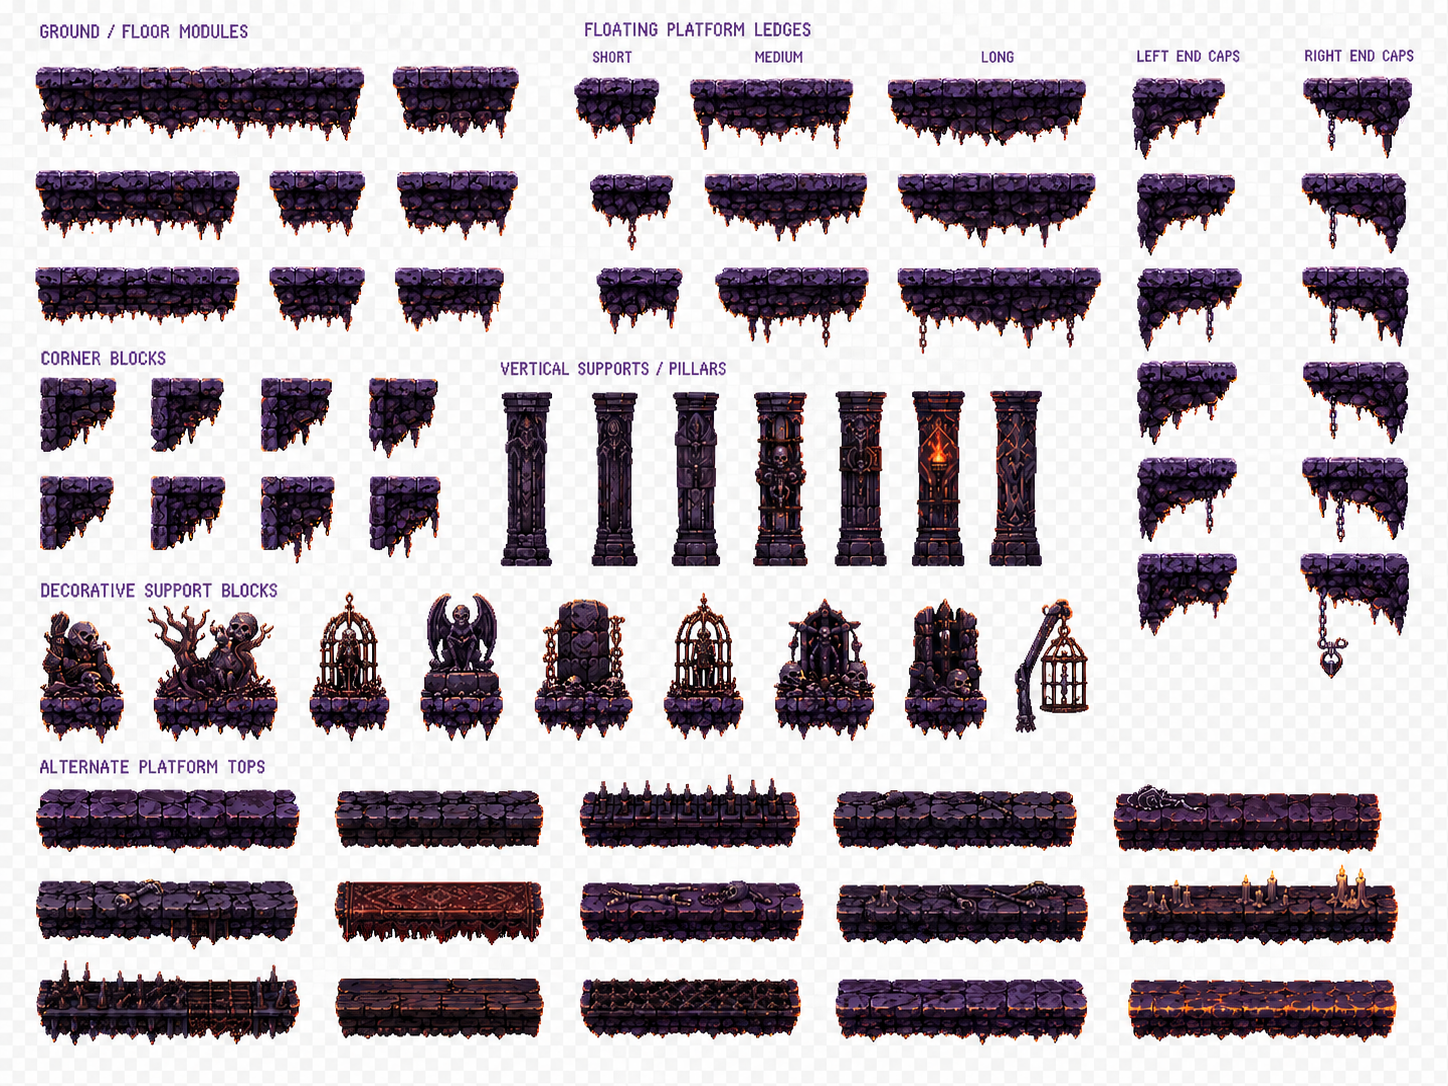
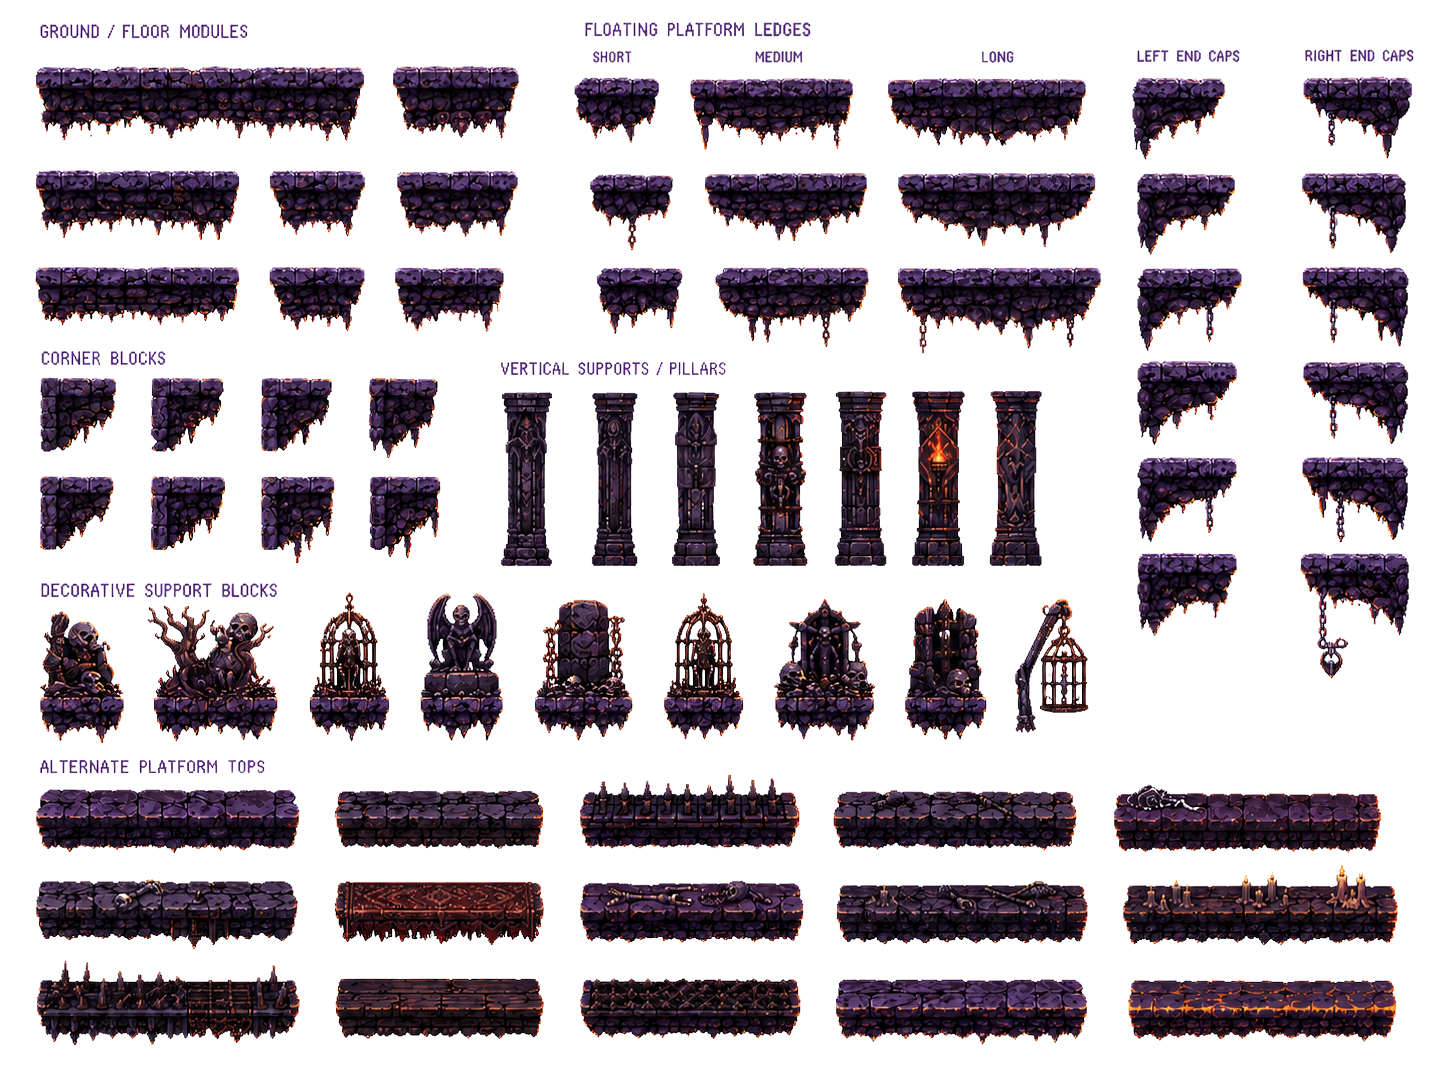
feat and fix: adicionado os novos fundos das fases, implementando a troca a cada fase que passa. concertado o movimento do sacerdote e da quimera

diff --git a/src/main/java/com/ced/umbrafell/controller/GameplayController.java b/src/main/java/com/ced/umbrafell/controller/GameplayController.java
@@ -24,6 +24,7 @@ import javafx.fxml.FXMLLoader;
 import javafx.scene.Parent;
 import javafx.scene.Scene;
 import javafx.scene.image.ImageView;
+import javafx.scene.image.Image;
 import javafx.scene.layout.Pane;
 import javafx.scene.paint.Color;
 import javafx.scene.shape.Rectangle;
@@ -437,6 +438,10 @@ public class GameplayController {
             
             if (enemy4 != null && enemy4.getEnemyModel() != null) {
                 enemy4.getEnemyModel().restaurarVida();
+                
+                if (enemy4 != null) {
+                    enemy4.redefinirPontoPatrulha();
+                }
             }
         }
         
@@ -446,8 +451,12 @@ public class GameplayController {
                 quimera.setTranslateX(1200 + (faseAtual * 160));
                 quimera.setTranslateY(chao - quimera.getHeight());
 
-                if (enemy5 != null && enemy5.getEnemyModel() != null) {
-                    enemy5.getEnemyModel().restaurarVida();
+                if (enemy5 != null) {
+                    enemy5.redefinirPontoPatrulha();
+
+                    if (enemy5.getEnemyModel() != null) {
+                        enemy5.getEnemyModel().restaurarVida();
+                    }
                 }
             } else {
                 quimera.setVisible(false); // oculta na fase 1
@@ -804,35 +813,39 @@ public class GameplayController {
     //<editor-fold defaultstate="collapsed" desc="FASE E PROGRESSÃO">
     private void iniciarFase() {
         System.out.println("Iniciando fase " + faseAtual);
-        
+
         if (input != null) {
             input.resetarTeclas();
         }
-        
+
         ultimoFrame = 0;
-        
+
         faseConcluida = false;
         jogadorDerrotado = false;
         tempoInvulneravel = 0;
-        
+
         scrollFase = 0;
         distanciaTotalFase = calcularDistanciaTotalFase();
-        
+
         inimigosDerrotadosNaFase = 0;
         morcegoContabilizado = false;
         dragaoContabilizado = false;
         vampiroContabilizado = false;
-        
+        sacerdoteContabilizado = false;
+        quimeraContabilizado = false;
+
         if (playerModel != null) {
             playerModel.setFaseAtual(faseAtual);
         }
-        
+
+        aplicarFundoDaFase();
+
         posicionarJogadorInicioFase();
         respawnarInimigosBasicos();
-        
+
         reajustarTamanhoCenario();
         atualizarCenarioPorScroll();
-        
+
         System.out.println("Distância da fase: " + distanciaTotalFase);
     }
     
@@ -946,6 +959,46 @@ public class GameplayController {
         reajustarTamanhoCenario();
     }
     
+    private void aplicarFundoDaFase() {
+        if (background1 == null) {
+            return;
+        }
+
+        String caminhoFundo = obterCaminhoFundoDaFase();
+
+        if (getClass().getResource(caminhoFundo) == null) {
+            System.out.println("Fundo da fase não encontrado: " + caminhoFundo);
+            return;
+        }
+
+        Image imagemFase = new Image(getClass().getResource(caminhoFundo).toExternalForm());
+
+        background1.setImage(imagemFase);
+        background1.setPreserveRatio(false);
+        background1.setSmooth(false);
+
+        System.out.println("Fundo carregado para fase " + faseAtual + ": " + caminhoFundo);
+    }
+
+    private String obterCaminhoFundoDaFase() {
+        switch (faseAtual) {
+            case 1:
+                return GameConfig.FUNDO_FASE_1;
+
+            case 2:
+                return GameConfig.FUNDO_FASE_2;
+
+            case 3:
+                return GameConfig.FUNDO_FASE_3;
+
+            case 4:
+                return GameConfig.FUNDO_FASE_4;
+
+            default:
+                return GameConfig.FUNDO_FASE_1;
+        }
+    }
+    
     private void organizarCamadasCenario() {
         if (background1 != null) {
             background1.toBack();
@@ -981,10 +1034,10 @@ public class GameplayController {
         if (rootPane == null || background1 == null) {
             return;
         }
-        
+
         double larguraTela = rootPane.getWidth();
         double alturaTela = rootPane.getHeight();
-        
+
         if (larguraTela <= 0) {
             larguraTela = LARGURA_PADRAO;
         }
@@ -992,28 +1045,29 @@ public class GameplayController {
         if (alturaTela <= 0) {
             alturaTela = ALTURA_PADRAO;
         }
-        
+
+        double larguraMundo = larguraTela + distanciaTotalFase;
+
         background1.setPreserveRatio(false);
-        background1.setFitWidth(larguraTela);
+        background1.setFitWidth(larguraMundo);
         background1.setFitHeight(alturaTela);
-        background1.setTranslateX(0);
         background1.setTranslateY(0);
-        
+
         if (ponteImg != null) {
             ponteImg.setVisible(false);
             ponteImg.setManaged(false);
         }
-        
+
         if (ponteHitbox != null) {
             double yChao = alturaTela * CHAO_RELATIVO_TELA;
-            
+
             ponteHitbox.setX(0);
             ponteHitbox.setY(yChao);
             ponteHitbox.setWidth(larguraTela);
             ponteHitbox.setHeight(4);
             ponteHitbox.setOpacity(0.0);
         }
-        
+
         atualizarCenarioPorScroll();
         reposicionarPlayerNoChao();
         organizarCamadasCenario();
@@ -1061,34 +1115,52 @@ public class GameplayController {
     }
     
     private void atualizarCenarioPorScroll() {
-        if (background1 == null) {
+        if (background1 == null || rootPane == null) {
             return;
         }
-        
-        background1.setTranslateX(0);
+
+        double larguraTela = rootPane.getWidth();
+
+        if (larguraTela <= 0) {
+            larguraTela = LARGURA_PADRAO;
+        }
+
+        double maxDeslocamento = Math.max(0, background1.getFitWidth() - larguraTela);
+        double deslocamento = Math.min(scrollFase, maxDeslocamento);
+
+        background1.setTranslateX(-deslocamento);
         background1.setTranslateY(0);
     }
     
     private void moverMundo(double scrollMundo) {
-        if (dragao != null) {
-            dragao.setTranslateX(dragao.getTranslateX() - scrollMundo);
+        moverNoMundo(dragao, scrollMundo);
+        moverNoMundo(morcego, scrollMundo);
+        moverNoMundo(vampiro, scrollMundo);
+
+        if (enemy4 != null) {
+            enemy4.moverNoMundo(scrollMundo);
+        } else {
+            moverNoMundo(sacerdote, scrollMundo);
         }
-        
-        if (morcego != null) {
-            morcego.setTranslateX(morcego.getTranslateX() - scrollMundo);
+
+        if (enemy5 != null) {
+            enemy5.moverNoMundo(scrollMundo);
+            enemy5.moverProjetisNoMundo(scrollMundo);
+        } else {
+            moverNoMundo(quimera, scrollMundo);
         }
-        
-        if (vampiro != null) {
-            vampiro.setTranslateX(vampiro.getTranslateX() - scrollMundo);
-        }
-        
+
         if (enemy1 != null) {
             enemy1.moverProjetisNoMundo(scrollMundo);
         }
-        
-        if (enemy5 != null) {
-            enemy5.moverProjetisNoMundo(scrollMundo);
+    }
+
+    private void moverNoMundo(Rectangle entidade, double scrollMundo) {
+        if (entidade == null) {
+            return;
         }
+
+        entidade.setTranslateX(entidade.getTranslateX() - scrollMundo);
     }
 //</editor-fold>
     

diff --git a/src/main/java/com/ced/umbrafell/util/GameConfig.java b/src/main/java/com/ced/umbrafell/util/GameConfig.java
@@ -11,7 +11,17 @@ public class GameConfig {
     }
 
     // Quantidade total de fases normais antes/final
-    public static final int TOTAL_FASES = 5;
+    public static final int TOTAL_FASES = 4;
+    
+    // Fundos das fases
+    public static final String FUNDO_FASE_1 = "/com/ced/umbrafell/fase1.png";
+    public static final String FUNDO_FASE_2 = "/com/ced/umbrafell/fase2.png";
+    public static final String FUNDO_FASE_3 = "/com/ced/umbrafell/fase3.png";
+    public static final String FUNDO_FASE_4 = "/com/ced/umbrafell/fase4.png";
+
+    // Telas finais
+    public static final String FUNDO_FINAL_BOM = "/com/ced/umbrafell/final_bom.png";
+    public static final String FUNDO_FINAL_RUIM = "/com/ced/umbrafell/final_ruim.png";
 
     // Ataque secundário à distância: 10 segundos
     public static final long COOLDOWN_ATAQUE_SECUNDARIO_MS = 10000;
@@ -41,7 +51,7 @@ public class GameConfig {
     public static final int VIDA_VAMPIRO = 30;
     public static final int VIDA_DRAGAO = 40;
     public static final int VIDA_SACERDOTE = 50;
-    public static final int VIDA_DRACULA = 200;
+    public static final int VIDA_QUIMERA = 200;
 
     // Velocidades recomendadas
     public static final double VELOCIDADE_PLAYER = 260;

diff --git a/src/main/java/com/ced/umbrafell/util/TesteRecursos.java b/src/main/java/com/ced/umbrafell/util/TesteRecursos.java
@@ -20,6 +20,14 @@ public class TesteRecursos {
         testar("/com/ced/umbrafell/Background1.png");
         testar("/com/ced/umbrafell/ponte.png");
         testar("/com/ced/umbrafell/ponte_sem_fundo.png");
+        
+        testar("/com/ced/umbrafell/fase1.png");
+        testar("/com/ced/umbrafell/fase2.png");
+        testar("/com/ced/umbrafell/fase3.png");
+        testar("/com/ced/umbrafell/fase4.png");
+
+        testar("/com/ced/umbrafell/final_bom.png");
+        testar("/com/ced/umbrafell/final_ruim.png");
 
         testar("/com/ced/umbrafell/inventario.fxml");
         testar("/com/ced/umbrafell/resultado.fxml");

diff --git a/src/main/java/com/ced/umbrafell/controller/SacerdoteController.java b/src/main/java/com/ced/umbrafell/controller/SacerdoteController.java
@@ -226,6 +226,19 @@ public class SacerdoteController {
         attackAnimationTime = frameDesejado * ATTACK_FRAME_DURATION;
     }
     
+    public void moverNoMundo(double scrollMundo) {
+        sacerdoteHitbox.setTranslateX(sacerdoteHitbox.getTranslateX() - scrollMundo);
+
+        pontoInicialX -= scrollMundo;
+        alvoX -= scrollMundo;
+
+        sincronizarVisualComHitbox();
+    }
+
+    public void redefinirPontoPatrulha() {
+        pontoInicialX = sacerdoteHitbox.getTranslateX();
+    }
+    
     public Rectangle getSacerdote() {
         return sacerdoteHitbox;
     }

diff --git a/src/main/java/com/ced/umbrafell/controller/QuimeraController.java b/src/main/java/com/ced/umbrafell/controller/QuimeraController.java
@@ -181,6 +181,19 @@ public class QuimeraController {
         }
     }
     
+    public void moverNoMundo(double scrollMundo) {
+        quimeraHitbox.setTranslateX(quimeraHitbox.getTranslateX() - scrollMundo);
+
+        pontoInicialX -= scrollMundo;
+        alvoX -= scrollMundo;
+
+        sincronizarVisualComHitbox();
+    }
+
+    public void redefinirPontoPatrulha() {
+        pontoInicialX = quimeraHitbox.getTranslateX();
+    }
+    
     public Rectangle getQuimera() {
         return quimeraHitbox;
     }

diff --git a/src/main/java/com/ced/umbrafell/model/QuimeraEnemy.java b/src/main/java/com/ced/umbrafell/model/QuimeraEnemy.java
@@ -12,7 +12,7 @@ public class QuimeraEnemy extends Enemy {
                     3,
                     "Quimera",
                     "QUIMERA",
-                    GameConfig.VIDA_DRAGAO,
+                    GameConfig.VIDA_QUIMERA,
                     calcularDano(),
                     GameConfig.VELOCIDADE_DRAGAO,
                     GameConfig.RECOMPENSA_BASE_JOIAS * 3,
